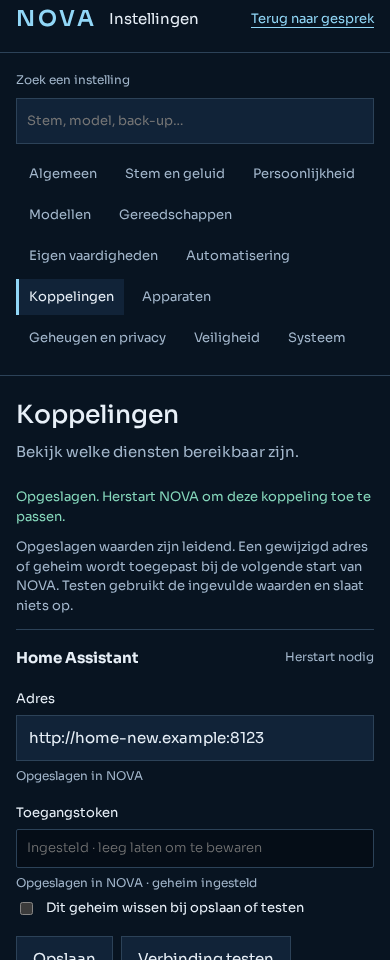
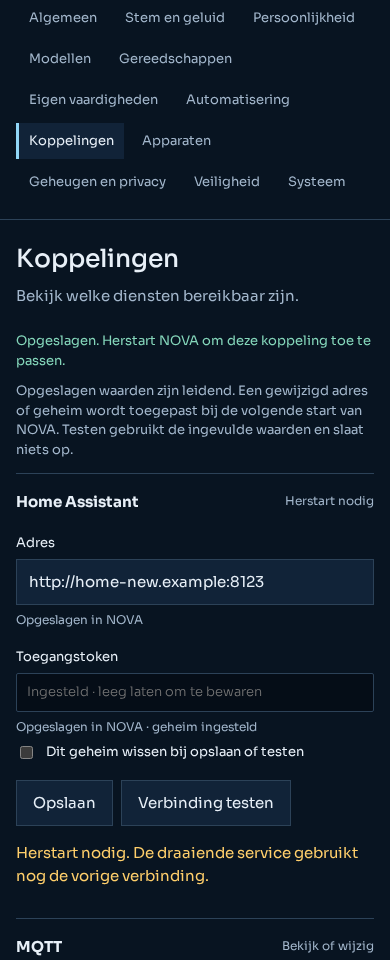
feat(settings): show private MQTT activity

diff --git a/apps/api/src/core/mqtt/mqtt.service.ts b/apps/api/src/core/mqtt/mqtt.service.ts
@@ -12,12 +12,33 @@ import { StateService } from "../state/state.service.js";
 const ALLOWED_TOPIC =
   /^jarvis\/(events\/(tool|proxmox|system|conversation|web|timer)|status\/(api|node-red|proxmox)|alerts)$/;
 
+const TOPICS = [
+  "jarvis/events/tool",
+  "jarvis/events/proxmox",
+  "jarvis/events/system",
+  "jarvis/events/conversation",
+  "jarvis/events/web",
+  "jarvis/events/timer",
+  "jarvis/status/api",
+  "jarvis/status/node-red",
+  "jarvis/status/proxmox",
+  "jarvis/alerts",
+] as const;
+
+export interface MqttRecentMessage {
+  topic: (typeof TOPICS)[number];
+  at: string;
+  summary: string;
+  delivery: "pending" | "accepted" | "failed";
+}
+
 /** Publishes NOVA's events on the message bus, for Node-RED flows and other listeners. */
 @Injectable()
 export class MqttService implements OnModuleInit, OnModuleDestroy {
   private client?: MqttClient;
   private watchdog?: NodeJS.Timeout;
   private readonly log = new Logger("MQTT");
+  private readonly recent: MqttRecentMessage[] = [];
 
   constructor(
     private readonly config: NovaConfig,
@@ -75,6 +96,39 @@ export class MqttService implements OnModuleInit, OnModuleDestroy {
     return this.client?.connected === true;
   }
 
+  overview() {
+    return {
+      connected: this.connected,
+      topics: TOPICS,
+      recent: this.recent.map((message) => ({ ...message })),
+    };
+  }
+
+  private messageSummary(topic: string, data: Record<string, unknown>): string {
+    if (topic === "jarvis/events/tool") {
+      const result =
+        typeof data.ok === "boolean"
+          ? data.ok
+            ? "geslaagd"
+            : "mislukt"
+          : "resultaat onbekend";
+      const duration =
+        typeof data.durationMs === "number" && Number.isFinite(data.durationMs)
+          ? ` · ${Math.max(0, Math.min(3_600_000, Math.round(data.durationMs)))} ms`
+          : "";
+      return `Tool ${result}${duration}`;
+    }
+    if (topic === "jarvis/events/conversation")
+      return "Gesprek afgerond · inhoud verborgen";
+    if (topic === "jarvis/events/timer")
+      return "Timergebeurtenis · label verborgen";
+    if (topic === "jarvis/alerts") return "Melding · details verborgen";
+    if (topic.startsWith("jarvis/status/")) return "Status bijgewerkt";
+    if (topic === "jarvis/events/proxmox") return "Proxmox-gebeurtenis";
+    if (topic === "jarvis/events/system") return "Systeemgebeurtenis";
+    return "Gebeurtenis gepubliceerd";
+  }
+
   envelope(type: string, data: unknown, severity = "info") {
     return {
       type,
@@ -88,8 +142,21 @@ export class MqttService implements OnModuleInit, OnModuleDestroy {
   publish(topic: string, data: Record<string, unknown>, retain = false): void {
     if (!ALLOWED_TOPIC.test(topic) || !this.client?.connected) return;
     const type = typeof data.type === "string" ? data.type : "update";
-    this.client.publish(topic, JSON.stringify(this.envelope(type, data)), {
-      retain,
-    });
+    const entry: MqttRecentMessage = {
+      topic: topic as MqttRecentMessage["topic"],
+      at: new Date().toISOString(),
+      summary: this.messageSummary(topic, data),
+      delivery: "pending",
+    };
+    this.recent.unshift(entry);
+    this.recent.length = Math.min(this.recent.length, 50);
+    this.client.publish(
+      topic,
+      JSON.stringify(this.envelope(type, data)),
+      { retain },
+      (error) => {
+        entry.delivery = error ? "failed" : "accepted";
+      },
+    );
   }
 }

diff --git a/apps/web/src/components/settings/ConnectionsSection.svelte b/apps/web/src/components/settings/ConnectionsSection.svelte
@@ -1,11 +1,13 @@
 <script lang="ts">
   import { onMount } from "svelte";
   import type {
+    MqttOverview,
     ServiceConnection,
     ServiceConnectionTest,
   } from "@nova/contracts";
   import {
     getServiceConnections,
+    getMqttOverview,
     saveServiceConnection,
     testServiceConnection,
   } from "#lib/api/settings.ts";
@@ -17,6 +19,8 @@
   let tests = $state<Record<string, ServiceConnectionTest>>({});
   let busy = $state<string | null>(null);
   let error = $state("");
+  let mqttOverview = $state<MqttOverview | null>(null);
+  let mqttError = $state("");
   const shown = $derived(
     services.filter((item) => !ids || ids.includes(item.id)),
   );
@@ -90,6 +94,18 @@
       }
     } catch (e) {
       fail(e);
+    } finally {
+      busy = null;
+    }
+  }
+  async function loadMqttOverview() {
+    busy = "mqtt-overview";
+    try {
+      mqttOverview = await getMqttOverview();
+      mqttError = "";
+    } catch (e) {
+      mqttError =
+        e instanceof Error ? e.message : "MQTT-overzicht niet beschikbaar.";
     } finally {
       busy = null;
     }
@@ -197,6 +213,54 @@
           </div>
         </fieldset>
       </form>
+      {#if service.id === "mqtt"}
+        <section aria-label="MQTT-berichten" class="mqtt-overview">
+          <h3>MQTT-status en berichten</h3>
+          <p class="hint">
+            Alleen berichten die NOVA sinds de start heeft verzonden. Inhoud en
+            privégegevens blijven verborgen.
+          </p>
+          <button
+            type="button"
+            disabled={busy !== null}
+            onclick={loadMqttOverview}>Berichten laden</button
+          >
+          {#if mqttError}<p role="status" class="connection-failed">
+              {mqttError}
+            </p>{/if}
+          {#if mqttOverview}
+            <p role="status">
+              {mqttOverview.connected ? "Verbonden" : "Niet verbonden"}
+            </p>
+            <h4>Topics die NOVA gebruikt</h4>
+            <ul>
+              {#each mqttOverview.topics as topic (topic)}<li>
+                  <code>{topic}</code>
+                </li>{/each}
+            </ul>
+            <h4>Recente berichten</h4>
+            {#if mqttOverview.recent.length}
+              <ul>
+                {#each mqttOverview.recent as message, index (index)}<li
+                  >
+                    <code>{message.topic}</code> · {message.summary} · {message.delivery ===
+                    "accepted"
+                      ? "aangenomen"
+                      : message.delivery === "failed"
+                        ? "mislukt"
+                        : "in wachtrij"} ·
+                    <time datetime={message.at}>{message.at}</time>
+                  </li>{/each}
+              </ul>
+            {:else}<p>Nog geen berichten sinds deze start.</p>{/if}
+            <p class="hint">
+              Dit is alleen de lokale verzendgeschiedenis. ‘Aangenomen’ betekent
+              dat de MQTT-client de verzending aannam; NOVA bevestigt geen
+              ontvangst. Berichten van andere apparaten worden niet gelezen.
+            </p>
+          {/if}
+        </section>
+      {/if}
       {#if service.restartRequired}<p class="connection-pending">
           Herstart nodig. De draaiende service gebruikt nog de vorige
           verbinding.

diff --git a/apps/api/test/settings/mqtt-overview.test.ts b/apps/api/test/settings/mqtt-overview.test.ts
@@ -1,0 +1,63 @@
+import { describe, expect, it, vi } from "vitest";
+import { MqttService } from "../../src/core/mqtt/mqtt.service.js";
+import { NovaConfig } from "../../src/core/config/nova-config.js";
+import { StateService } from "../../src/core/state/state.service.js";
+
+function fixture() {
+  const service = new MqttService({} as NovaConfig, {} as StateService);
+  const callbacks: ((error?: Error) => void)[] = [];
+  const client = {
+    connected: true,
+    publish: vi.fn(
+      (
+        _topic: string,
+        _payload: string,
+        _options: { retain: boolean },
+        callback: (error?: Error) => void,
+      ) => {
+        callbacks.push(callback);
+      },
+    ),
+  };
+  (service as unknown as { client: typeof client }).client = client;
+  return { service, client, callbacks };
+}
+
+describe("private MQTT overview", () => {
+  it("lists fixed topics and summarizes outbound messages without payload data", () => {
+    const { service, callbacks } = fixture();
+    service.publish("jarvis/events/timer", {
+      type: "timer_fired",
+      label: "private label",
+    });
+    callbacks[0]!();
+    const overview = service.overview();
+    expect(overview.topics).toContain("jarvis/events/timer");
+    expect(overview.recent[0]).toMatchObject({
+      topic: "jarvis/events/timer",
+      summary: "Timergebeurtenis · label verborgen",
+      delivery: "accepted",
+    });
+    expect(JSON.stringify(overview)).not.toContain("private label");
+  });
+
+  it("keeps only the newest fifty entries and records delivery failure", () => {
+    const { service, callbacks } = fixture();
+    for (let index = 0; index < 51; index++)
+      service.publish("jarvis/events/tool", { ok: true, durationMs: index });
+    callbacks[1]!(new Error("broker detail"));
+    const { recent } = service.overview();
+    expect(recent).toHaveLength(50);
+    expect(recent.at(-1)?.delivery).toBe("failed");
+    expect(JSON.stringify(recent)).not.toContain("broker detail");
+  });
+
+  it("does not record messages for unlisted topics or disconnected broker", () => {
+    const { service, client } = fixture();
+    service.publish("private/topic", { secret: "hidden" });
+    client.connected = false;
+    service.publish("jarvis/events/tool", { secret: "hidden" });
+    expect(service.overview().recent).toEqual([]);
+    expect(client.publish).not.toHaveBeenCalled();
+  });
+});

diff --git a/apps/api/src/settings/services/service-connections.controller.ts b/apps/api/src/settings/services/service-connections.controller.ts
@@ -10,6 +10,7 @@ import {
 } from "@nestjs/common";
 import { ValidationError } from "../../core/errors/validation.error.js";
 import { SettingsGuard } from "../settings.guard.js";
+import { MqttService } from "../../core/mqtt/mqtt.service.js";
 import { ServiceConnectionsStore } from "./service-connections.store.js";
 import { ServiceConnectionsAdapter } from "./service-connections.adapter.js";
 
@@ -20,6 +21,7 @@ export class ServiceConnectionsController {
   constructor(
     private readonly store: ServiceConnectionsStore,
     private readonly adapters: ServiceConnectionsAdapter,
+    private readonly mqtt: MqttService,
   ) {}
 
   @Get() list() {
@@ -27,6 +29,9 @@ export class ServiceConnectionsController {
   }
   @Get("history") history() {
     return { revisions: this.store.history() };
+  }
+  @Get("mqtt/overview") mqttOverview() {
+    return this.mqtt.overview();
   }
   @Get(":id/status") status(@Param("id") id: string) {
     return { test: this.adapters.status(id) };

diff --git a/apps/api/test/settings/service-connections.test.ts b/apps/api/test/settings/service-connections.test.ts
@@ -74,6 +74,9 @@ describe("service connection management", () => {
         (await pinned.api.get("/api/settings/services/history")).status,
       ).toBe(401);
       expect(
+        (await pinned.api.get("/api/settings/services/mqtt/overview")).status,
+      ).toBe(401);
+      expect(
         (await pinned.api.get("/api/settings/services/home-assistant/status"))
           .status,
       ).toBe(401);
@@ -84,6 +87,12 @@ describe("service connection management", () => {
             .set("x-nova-pin", "fixture-pin")
         ).status,
       ).toBe(200);
+      const mqttOverview = await pinned.api
+        .get("/api/settings/services/mqtt/overview")
+        .set("x-nova-pin", "fixture-pin");
+      expect(mqttOverview.status).toBe(200);
+      expect(mqttOverview.body.topics).toContain("jarvis/events/timer");
+      expect(mqttOverview.body.recent).toEqual([]);
       expect(
         (
           await pinned.api

diff --git a/apps/web/src/lib/api/settings.ts b/apps/web/src/lib/api/settings.ts
@@ -7,6 +7,7 @@ import type {
   OmniRouteAccountsReport,
   OmniRouteAccountRemovalPrepared,
   OmniRouteAccountRemovalResult,
+  MqttOverview,
 } from "@nova/contracts";
 import type {
   NativeGatewayReport,
@@ -225,6 +226,8 @@ export const persistHelperPreferences = (preferences: HelperPreferences) =>
 /* ---------- service connections (credentials never returned) ---------- */
 export const getServiceConnections = () =>
   read<{ services: ServiceConnection[] }>("/services");
+export const getMqttOverview = () =>
+  read<MqttOverview>("/services/mqtt/overview");
 export const saveServiceConnection = (
   id: string,
   values: Record<string, string | boolean>,

diff --git a/packages/contracts/src/settings.ts b/packages/contracts/src/settings.ts
@@ -467,6 +467,19 @@ export interface ServiceConnectionTest {
   status?: number;
 }
 
+export interface MqttRecentMessage {
+  topic: string;
+  at: string;
+  summary: string;
+  delivery: "pending" | "accepted" | "failed";
+}
+
+export interface MqttOverview {
+  connected: boolean;
+  topics: string[];
+  recent: MqttRecentMessage[];
+}
+
 export interface ServiceConnectionWrite {
   ok: true;
   services: ServiceConnection[];

diff --git a/docs/settings-services-inventory.md b/docs/settings-services-inventory.md
@@ -42,7 +42,7 @@ All NOVA API paths below have the `/api` prefix, except public download paths. U
 | OmniRoute      | `nova-config.ts:60`; `routing/routing.service.ts:47` reads `free-routing-policy.json` and mounted read-only SQLite per verification; `omniroute-management.service.ts:69` retains session cookie and 30-second status cache.                                                                     | NOVA `GET /api/providers`, `GET /api/gateway` (`routing/routing.controller.ts:15`). Private upstream `POST /api/auth/login`; helper `request()` supports `/api/*`, one renewal on 401, ten-second timeout, no redirects. Currently used upstream endpoints: `/api/memory/engine-status`, `/api/settings/memory`, `/api/agent-skills`, `/api/agent-skills/:id`, `/api/agent-skills/:id/raw`, `/api/settings/compression`, `/api/cache/stats`; memory backend has additional memory-specific calls. | No provider/account/combo/model/key CRUD in NOVA. Generic private request capability does not establish that any proposed upstream endpoint exists. Verify installed upstream API before building adapters. Credentials/cookies must stay server-side; inference still passes the free-routing verifier. |
 | Node-RED       | `nova-config.ts:108`; `dashboard/dashboard.controller.ts:84` probes root URL. Compose optional service and persisted flows under its own `/data`.                                                                                                                                                | NOVA health reports reachability. Incoming alert/tool routes integrate existing flows. Direct editor exposed by compose on port 1880.                                                                                                                                                                                                                                                                                                                                                             | No admin proxy, flows/palette/settings/log management. J4 explicitly deferred until phase C.                                                                                                                                                                                                             |
 | Qdrant         | `memory/semantic-memory.service.ts:80` lazily constructs and caches backend; `semantic/qdrant.backend.ts:125` snapshots URL/collection/options. Collection lazy init checks dimensions/Cosine and preserves incompatible collection.                                                             | `/api/integrations` reports Qdrant health. `/api/memories` and `/api/memories/search` plus memory tools read/manage the selected memory backend, which may be OmniRoute rather than Qdrant. Qdrant backend has `health`, `list`, `remove`, `maintain`; uses `/collections/:collection` and points APIs.                                                                                                                                                                                           | No all-collections listing, sizes, guarded reindex job or connection editor. Cached backend must be rebuilt for dynamic connection changes. Do not silently replace collections on dimension change.                                                                                                     |
-| MQTT           | `core/mqtt/mqtt.service.ts:27` creates persistent client at module init; watchdog retries and updates state. No username/password fields in current config.                                                                                                                                      | `/api/health`, `/api/integrations` show connection. Publisher restricts topics to `jarvis/events/{tool,proxmox,system,conversation,web,timer}`, `jarvis/status/{api,node-red,proxmox}`, `jarvis/alerts` (`mqtt.service.ts:12`).                                                                                                                                                                                                                                                                   | No topic inspector, bounded message history, subscription management or runtime reconnect on config edits. Broker configuration is separate Mosquitto files under compose-mounted config directory.                                                                                                      |
+| MQTT           | `core/mqtt/mqtt.service.ts` creates persistent client at module init; watchdog retries and updates state. URL and credentials are editable under Connections; restart applies them.                                                                                                              | `/api/health`, `/api/integrations` show connection. The PIN-guarded MQTT overview lists the ten fixed NOVA publish topics and up to 50 recent local sends, with fixed summaries and callback status. No inbound subscriptions or messages from other clients are read.                                                                                                                                                                                                                            | The recent ring is memory-only and resets on restart. QoS 0 callback acceptance does not prove broker delivery. Broker configuration is separate Mosquitto files under compose-mounted config directory.                                                                                                 |
 | Home Assistant | `home/home-assistant.service.ts:96` snapshots connection; REST plus WebSocket authentication and entity cache.                                                                                                                                                                                   | `GET /api/entities?query=&domain=&area=` (`home/home.controller.ts:14`), integration health and existing home tools. Domain/area query filters are display filters, not authorization.                                                                                                                                                                                                                                                                                                            | No persistent entity/area permissions or connection editor; reconnect and cache reset required for dynamic changes.                                                                                                                                                                                      |
 | Proxmox        | `proxmox/proxmox.service.ts:71` reads config for each request; requests use `/api2/json`, token auth and TLS option.                                                                                                                                                                             | Existing Proxmox inventory/action tools, dashboard overview and state health; no dedicated connection settings controller.                                                                                                                                                                                                                                                                                                                                                                        | No persistent allowed-node/guest policy or settings test/save route. Getter-based requests still use immutable boot config today.                                                                                                                                                                        |
 | Termix         | `integrations/termix/termix.service.ts:50` getters read config; `/health` probe, host inventory and confirmed commands.                                                                                                                                                                          | Existing Termix tools; service health exposed to integration tool. No direct settings controller.                                                                                                                                                                                                                                                                                                                                                                                                 | No connection editor or allowed-host policy. Existing SSH execution credentials remain server-side.                                                                                                                                                                                                      |

diff --git a/docs/development-state.md b/docs/development-state.md
@@ -11,7 +11,7 @@ Do not record credentials, personal messages or actual deployment configuration 
 - User approved push/release of A, then immediate work on J. Future phase releases still require their phase approval.
 - Phase A tags v0.1.9/v0.1.10 published agent assets, but Docker Hub throttling/timeouts prevented image publishing.
 - Commit `3534257` configures Docker's registry mirror for QEMU, BuildKit and base-image pulls; v0.1.11 succeeded: CI/release green, amd64/arm64 image and both release assets verified.
-- Phase J in progress: 49/259 tasks overall; settings block `81ceebe` verified; private model metrics and explicit release checks also built and tested.
+- Phase J in progress: 50/259 tasks overall; settings block `81ceebe` verified; private model metrics and explicit release checks also built and tested.
 - This file must be updated with test outcomes and the next unfinished step before a usage-limit pause.
 - Resume automatically when the host allows execution; this file cannot restart an ended session or increase quota.
 
@@ -46,6 +46,8 @@ Saved gateway URL changes are blocked until provenance is verified; connection t
 Do not push/release J until its phase approval. No Windows code changed in this block.
 
 Helper preferences and saved mode/display are now included in version-one settings backups. Legacy files preserve omitted helper fields in both merge and replace. Strict nested validation and secret projection cover cues and known wardrobe fields; unrecognized legacy wardrobe extras are omitted from public reads and exports. Import reports helper changes and never commands the Windows agent. Node24 format/lint/typecheck/test/build passed: 1,012 tests in 49 files. Production browser checks and screenshot review remain pending. Local changes are uncommitted; next J6 candidate is bounded read-only MQTT visibility. J phase push/release still needs separate approval.
+
+J6.2 MQTT overview now lists fixed publisher topics, connection state and at most 50 process-local send summaries behind SettingsGuard. Timer, alert and conversation content stays hidden; delivery callbacks report client acceptance, not broker receipt. No inbound subscription was added. Full Node24 gates passed: 1,015 tests in 50 files, format, lint, typecheck and build. Production browser checks passed at 1x/2x/mobile, including duplicate timestamps; connection and MQTT screenshots reviewed. Continue J; no J push/release approval.
 
 ## Memory tooling decision
 

diff --git a/tasks-09-10-2026.md b/tasks-09-10-2026.md
@@ -629,7 +629,9 @@ Screenshots gebruiken nepgegevens; nog geen controle op een echte telefoon. Fase
 ### J6 Andere services en apparaten
 
 - [ ] J6.1 Qdrant: collecties, grootte, opschonen, een controle op het geheugen, en een herindexeer-knop.
-- [ ] J6.2 MQTT: verbinding, welke onderwerpen NOVA gebruikt, laatste berichten bekijken.
+- [x] J6.2 MQTT: verbinding, welke onderwerpen NOVA gebruikt, laatste berichten bekijken.
+      Gereed: PIN-beschermd overzicht met status, vaste publish-topics en maximaal 50 lokale berichten sinds start.
+      Inhoud blijft verborgen; ontvangst is niet onafhankelijk bevestigd en inkomende berichten worden niet gelezen.
 - [ ] J6.3 Home Assistant: verbinding, welke apparaten NOVA mag zien en bedienen (kiezen per gebied of apparaat).
 - [ ] J6.4 Proxmox, Termix, Pangolin: verbinding testen, welke servers en machines NOVA mag zien.
 - [x] J6.5 Windows-agent en helper: versie, nieuwe versie downloaden, modus, scherm, sneltoetsen en status, op één plek.
